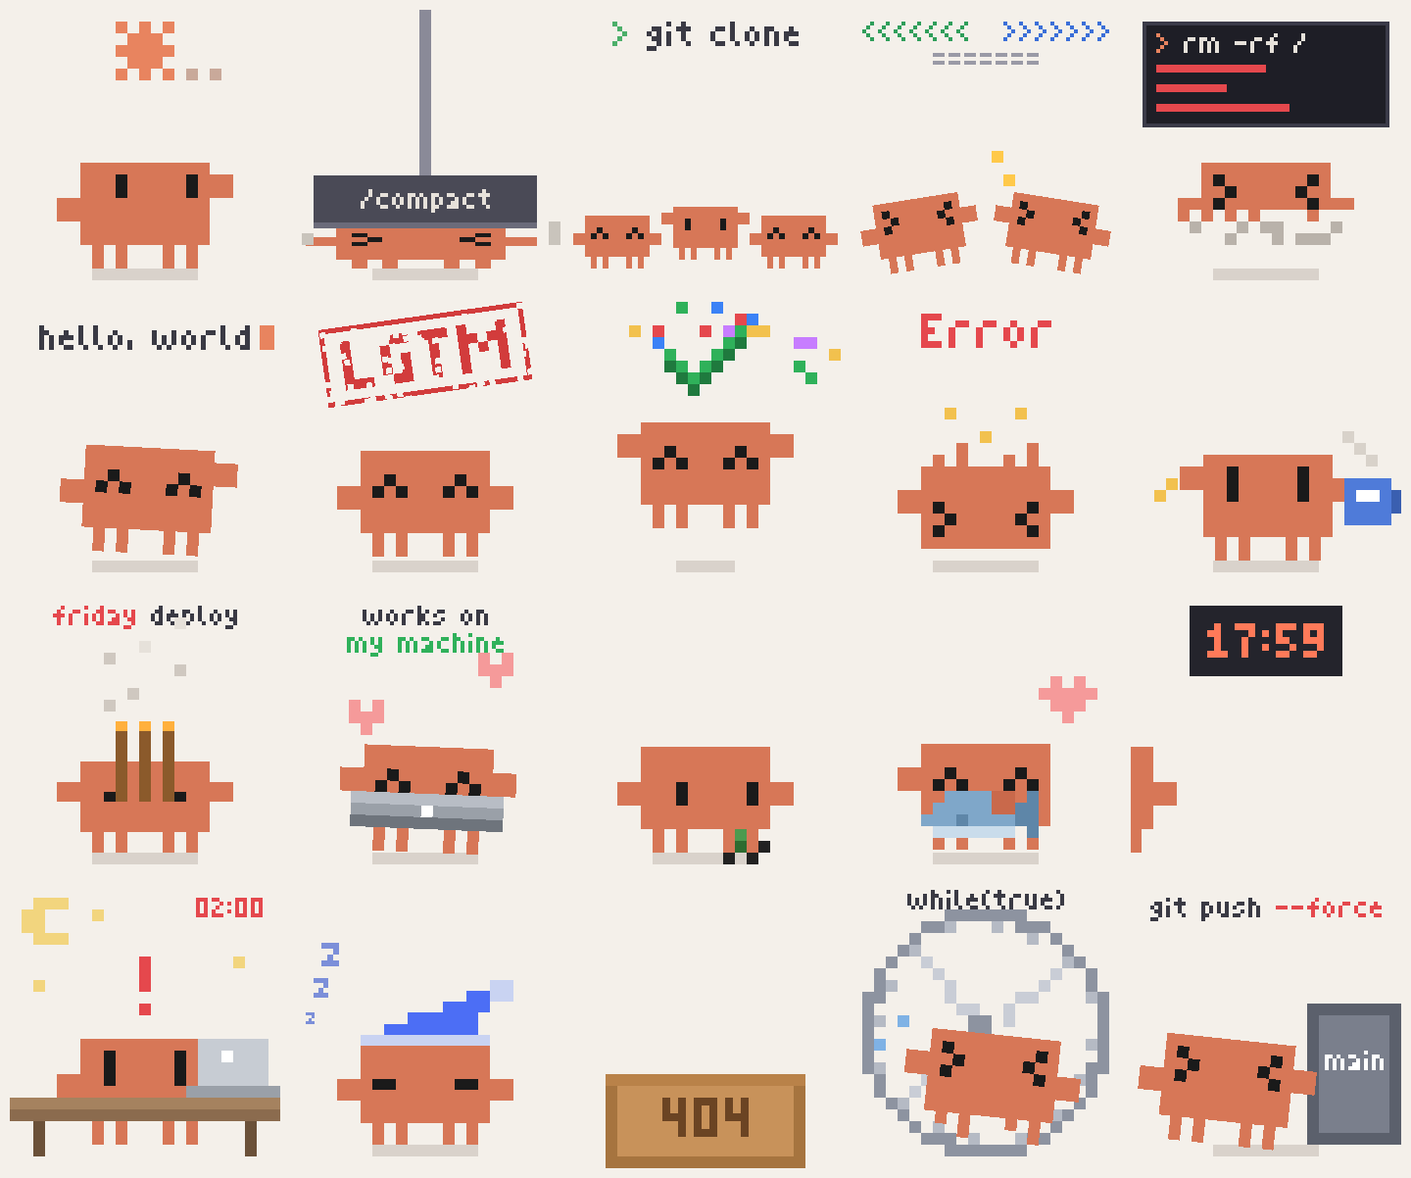
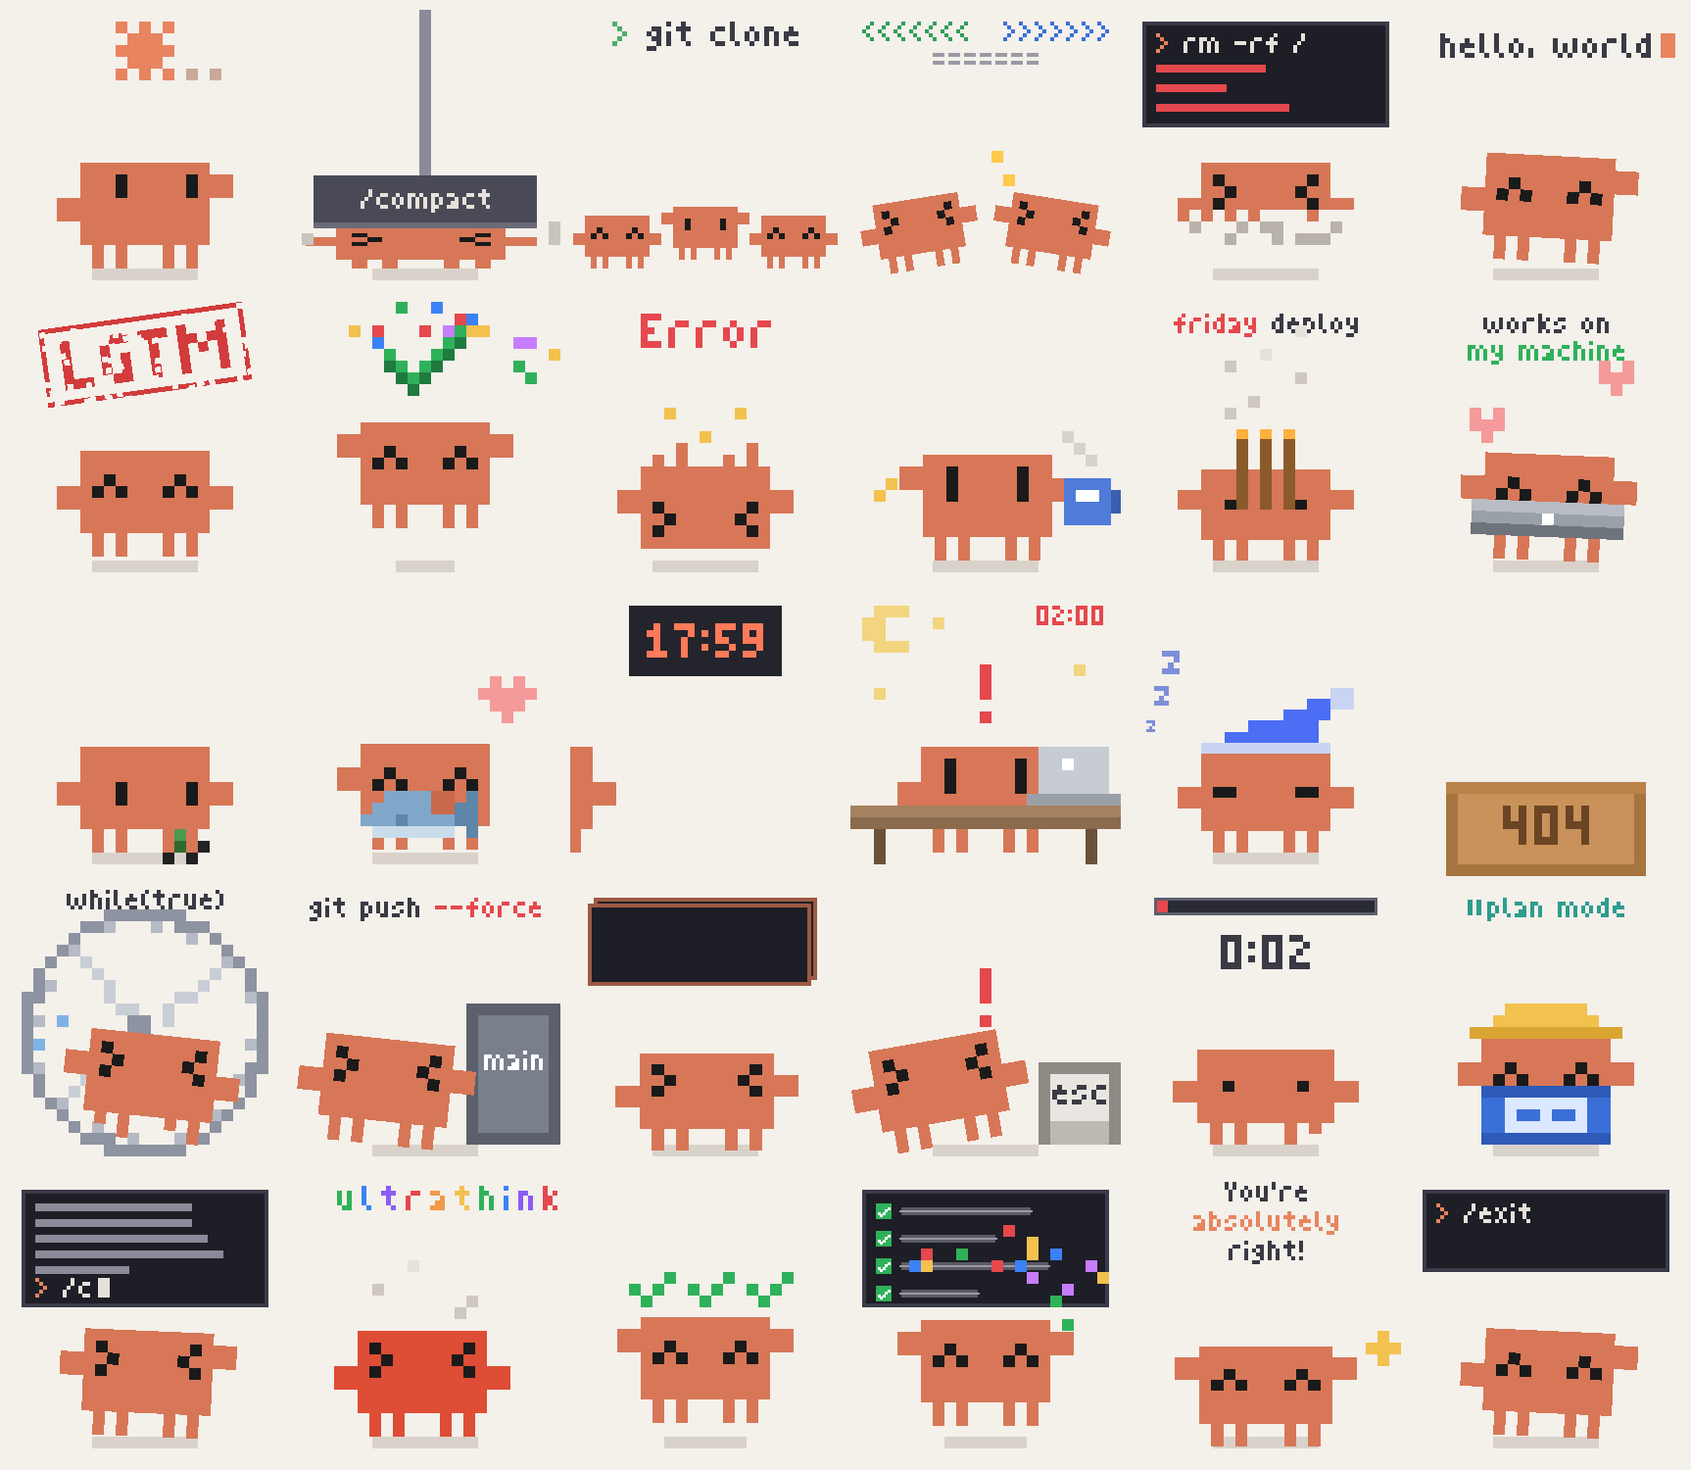
Add 10 Claude Code stickers to Dev Life (now 30)
Yes Proceed, Esc, Usage Limit, Plan Mode, /clear, ultrathink,
Subagents, Todo List, You're Absolutely Right! and /exit, with
English and Chinese README entries and a 30-sticker preview.

diff --git a/01-dev-life/src/clawd_dev.py b/01-dev-life/src/clawd_dev.py
@@ -128,7 +128,20 @@ GL={
  '4':["x.x","x.x","xxx","..x","..x"], '5':["xxx","x..","xx.","..x","xx."],
  '6':[".xx","x..","xx.","x.x",".x."], '7':["xxx","..x",".x.",".x.",".x."],
  '8':["xxx","x.x","xxx","x.x","xxx"], '9':["xxx","x.x","xxx","..x","xx."],
+ '.':[".",".",".",".","x"], '?':["xx.","..x",".x.","...",".x."], "'":["x","x",".",".","."],
+ 'Y':["x.x","x.x",".x.",".x.",".x."], 'x':["...","x.x",".x.",".x.","x.x"],
 }
+def mix(c1,c2,t):
+    a=[int(c1[k:k+2],16) for k in (1,3,5)]; b=[int(c2[k:k+2],16) for k in (1,3,5)]
+    return '#'+''.join(f'{round(x+(y-x)*t):02X}' for x,y in zip(a,b))
+def run_legs(p,f):
+    """Alternate leg pairs for a running cycle; f is 0 or 1."""
+    clear(p,rect(3,13,11,14))
+    for x in ((3,9) if f else (5,11)): put(p,[(x,13)],BODY)
+    for x in ((5,11) if f else (3,9)): put(p,[(x,13),(x,14)],BODY)
+    return p
+def term(img,x0,y0,x1,y1):
+    box(img,x0,y0,x1,y1,'#3A3A48'); box(img,x0+4,y0+4,x1-4,y1-4,'#1E1E26')
 def textc(img,s,mid,y,px,col): return text(img,s,round(mid-text_w(s)*px/2),y,px,col)
 def spr(rows,x0,y0,pal):
     """Cell sprite from strings; chars not in pal are transparent."""
@@ -663,6 +676,251 @@ def forcepush():
     fr[-1]=(fr[-1][0],400)
     return fr
 
+# ---------- Yes, Proceed · 疯狂同意 ----------
+def proceed():
+    fr=[]; N=64; ORG='#E8845F'; FG='#E6E1DA'
+    presses=[8,18,26,32,37,41,44,47,50,53,56]
+    for i in range(N):
+        done=[t for t in presses if t<=i]; n=len(done); since=i-done[-1] if done else 99
+        img=canvas()
+        for off in (12,6):   # the queue of dialogs waiting behind
+            x0,y0=cx(-3)+off,cy(-5)-off
+            box(img,x0,y0,cx(16)+off,cy(2)-off,'#9C5A43'); box(img,x0+4,y0+4,cx(16)+off-4,cy(2)-off-4,'#1E1E26')
+        if since>=1:
+            x0,y0=cx(-3),cy(-5)
+            box(img,x0,y0,cx(16),cy(2),ORG); box(img,x0+4,y0+4,cx(16)-4,cy(2)-4,'#1E1E26')
+            text(img,'proceed?',x0+14,y0+14,4,FG)
+            box(img,x0+10,y0+44,x0+92,y0+72,'#3A3A48'); text(img,'> yes',x0+16,y0+48,4,ORG)
+        p=base(); dy=0; sq={}
+        face(p,'x' if n>=5 else 'n',0,-1 if n<5 else 0)
+        if since<1: arms(p,DOWN,MID); dy=0.5; sq=squash(0.92)
+        else: arms(p,DOWN,UP)
+        dx=0.25*math.sin(i*2.9) if n>=6 else 0
+        fr.append((comp(shadow(),img,xform(p,dx,dy,**sq)),60))
+    return fr
+
+# ---------- Esc · 急停 ----------
+def esc():
+    fr=[]; N=56
+    for i in range(N):
+        ky=round(kf(i,[(8,-22),(12,0),(44,0),(50,-24)]))
+        key={}
+        put(key,rect(12,8+ky,18,12+ky),'#E9E6E1'); put(key,rect(12,13+ky,18,14+ky),'#BDB8B0')
+        put(key,rect(12,8+ky,18,8+ky)+rect(12,8+ky,12,14+ky)+rect(18,8+ky,18,14+ky),'#8E8A84')
+        lab=canvas(); textc(lab,'esc',cx(15.5),cy(9+ky)+6,5,'#3A3A44')
+        p=base(); rot=0; fx={}
+        dx=kf(i,[(0,-14),(14,-3)]) if i<14 else -3
+        if i<14:
+            run_legs(p,(i//2)%2); face(p,'n',1 if i<11 else 0); arms(p,MID if (i//2)%2 else DOWN,DOWN if (i//2)%2 else MID)
+            for y in (8,10,12): put(fx,[(round(dx)-2-k,y) for k in range(3)],'#CFC8C0')
+        elif i<26:
+            face(p,'x'); rot=kf(i,[(14,0),(16,10),(22,10),(26,0)])
+            if i<20:
+                for k in range(3): fx[(round(dx)+1-k-(i-14),14-k%2)]='#D9D2CB'
+            if 16<=i<24 and (i//2)%2: fx.update(bang(7,0))
+        else: face(p,'n',1,0,blink=(i in (34,35)))
+        fr.append((comp(shadow(),xform(p,dx,0,rot=rot),key,lab,fx),60))
+    fr[13]=(fr[13][0],120); fr[-1]=(fr[-1][0],300)
+    return fr
+
+# ---------- Usage Limit · 额度用完 ----------
+def limit():
+    fr=[]; N=60; RED='#E5484D'; G='#2FB15A'
+    for i in range(N):
+        img=canvas(); x0,x1,y0=cx(-2),cx(17),cy(-6)
+        box(img,x0,y0,x1,y0+18,'#5B606C'); box(img,x0+3,y0+3,x1-3,y0+15,'#2A2A33')
+        f=0.05 if i<36 else kf(i,[(36,0.05),(42,1)])
+        box(img,x0+3,y0+3,x0+3+(x1-x0-6)*f,y0+15,RED if i<36 else G)
+        t=['0:03','0:02','0:01'][i//12] if i<36 else '0:00'
+        textc(img,t,138,cy(-3)+2,7,'#3A3A44' if i<36 else G)
+        p=base(); dy=0; rot=0; sq={}
+        if i<36:
+            face(p,'n',blink=True); rot=3*math.sin(TAU*i/24); sq=squash(0.9)
+            if (i//4)%2: clear(p,[(11,14)])
+        elif i<40: face(p,'n'); put(p,[(4,7),(10,7)],K)
+        else:
+            face(p,'hap'); t2=((i-40)%8)/8
+            if i<56: dy=-2.5*math.sin(math.pi*t2); arms(p,UP,UP)
+        fr.append((comp(shadow(-dy),img,xform(p,0,dy,rot=rot,**sq)),70))
+    fr[35]=(fr[35][0],300)
+    return fr
+
+# ---------- Plan Mode · 计划模式 ----------
+def plan():
+    fr=[]; N=60; TEAL='#2E9C8F'
+    HAT=["....yyyyyyy....","...yyyyyyyyy...",".ddddddddddddd."]
+    LINES=[(x,13) for x in range(4,11)]+[(4,12),(10,12)]+[(4,11),(5,11),(6,11),(7,11),(8,11),(9,11),(10,11)]+[(7,12)]
+    for i in range(N):
+        img=canvas(); tw=text_w('plan mode')*4; x0=round(138-(tw+20)/2); y0=cy(-6)
+        box(img,x0,y0+2,x0+5,y0+18,TEAL); box(img,x0+9,y0+2,x0+14,y0+18,TEAL)
+        text(img,'plan mode',x0+20,y0,4,TEAL)
+        p=base(); arms(p,MID,MID); dy=0
+        if i<10: face(p,'n')
+        elif i<40: face(p,'n',-1 if (i//8)%2 else 1,0,blink=(i in (30,31))); dy=0.4 if (i//6)%2 else 0
+        else: face(p,'hap')
+        if 42<=i<50: dy=-kf(i,[(42,0),(45,2),(48,0)])
+        p.update(spr(HAT,0,3,{'y':'#F2C14E','d':'#D9A532'}))
+        w=kf(i,[(2,1),(10,11)])
+        put(p,[(x,y) for x in range(round(7-w/2),round(7+w/2)+1) for y in range(10,15)],'#3B6FD8')
+        put(p,[(x,y) for x in range(round(7-w/2),round(7+w/2)+1) for y in (10,14)],'#2E5AB8')
+        if i>=10: put(p,LINES[:clamp((i-10)//2+1,0,len(LINES))],'#DCE8FF')
+        fr.append((comp(shadow(-dy),img,xform(p,0,dy)),70))
+    fr[-1]=(fr[-1][0],400)
+    return fr
+
+# ---------- /clear · 清空上下文 ----------
+def clear_ctx():
+    fr=[]; N=60; FG='#E6E1DA'; ORG='#E8845F'; rng=random.Random(11)
+    bars=[rng.randint(6,26) for _ in range(40)]
+    for i in range(N):
+        img=canvas(); X0,Y0,X1,Y1=cx(-3),cy(-6),cx(18),cy(4); term(img,X0,Y0,X1,Y1)
+        tx=X0+14; px=4
+        if i<18:
+            for r in range(5):
+                box(img,tx,Y0+14+r*16,tx+bars[r+i//3]*px*2,Y0+14+r*16+8,'#8A8A98')
+            typed='/clear'[:clamp((i-4)//2,0,6)]; py=Y1-30
+            x=text(img,'> ',tx,py,px,ORG); x=text(img,typed,x,py,px,FG)
+            if (i//4)%2==0: box(img,x+px,py,x+4*px,py+5*px,FG)
+        elif i<24:
+            for r in range(5-(i-18)):
+                box(img,tx,Y0+14+(r+(i-18))*16,tx+bars[r]*px*2,Y0+14+(r+(i-18))*16+8,'#8A8A98')
+        else:
+            x=text(img,'> ',tx,Y0+14,px,ORG)
+            if (i//4)%2==0: box(img,x+px,Y0+14,x+4*px,Y0+14+5*px,FG)
+        p=base(); rot=0; fx={}
+        if i<18:
+            face(p,'x'); rot=3*math.sin(i*1.3)
+            if 4<=i<16: arms(p,UP if i%2 else MID,MID if i%2 else UP)
+        else:
+            face(p,'hap' if i<48 else 'n',blink=(i in (54,55)))
+            if i<40:
+                for k,(x,y) in enumerate([(-2,7),(16,6),(0,4),(15,10)]):
+                    if (i+k)%4<2: fx.update({(x,y):'#F2C14E',(x+1,y):'#F2C14E',(x,y-1):'#F2C14E'})
+        fr.append((comp(shadow(),img,xform(p,0,0,rot=rot),fx),60))
+    fr[17]=(fr[17][0],200); fr[-1]=(fr[-1][0],400)
+    return fr
+
+# ---------- ultrathink · 深度思考 ----------
+def ultrathink():
+    fr=[]; N=60; RAIN=['#E5484D','#F2994A','#F2C14E','#2FB15A','#3B82F6','#8B5CF6']
+    BULB=[".yyy.","yyyyy","yyyyy",".yyy.",".ggg.","..g.."]
+    w='ultrathink'; px=5
+    for i in range(N):
+        img=canvas(); x=round(138-text_w(w)*px/2)
+        for k,c in enumerate(w[:clamp(i-1,0,len(w))]):
+            x=text(img,c,x,cy(-6)-4,px,RAIN[(k+i//2)%6])+px
+        p=base(); dx=0; fx={}
+        heat=kf(i,[(12,0),(40,1),(44,1),(48,0)])
+        if i<12: face(p,'n',0,-1)
+        elif i<44:
+            face(p,'x'); dx=0.25*math.sin(i*3)
+            for k in range(4):
+                t=((i+k*3)%12)/12; fx[(3+k*3+round(math.sin(t*6+k)),round(5-t*6))]='#CFC8C0' if t<0.6 else '#E6E1DA'
+        else:
+            face(p,'hap'); fx.update(spr(BULB,5,-2,{'y':'#FFE066','g':'#9AA0AA'}))
+            if (i//3)%2: fx.update({(3,-2):'#FFE066',(11,-2):'#FFE066',(3,2):'#FFE066',(11,2):'#FFE066',(7,-4):'#FFE066'})
+        hot=mix(BODY,'#E0402A',heat)
+        p={k:(hot if c==BODY else c) for k,c in p.items()}
+        fr.append((comp(shadow(),img,xform(p,dx,0),fx),60))
+    fr[44]=(fr[44][0],200); fr[-1]=(fr[-1][0],400)
+    return fr
+
+# ---------- Subagents · 子代理 ----------
+def subagents():
+    fr=[]; N=64; G='#2FB15A'; CK=[(0,1),(1,2),(2,1),(3,0)]
+    paths=[[(6,138),(20,-40),(34,-40),(48,138)],[(8,138),(22,316),(36,316),(50,138)],[(10,138),(26,-40),(38,-40),(52,138)]]
+    for i in range(N):
+        tiny=[]; img=canvas(); d=ImageDraw.Draw(img)
+        for k,pth in enumerate(paths):
+            if not pth[0][0]<=i<pth[-1][0]: continue
+            tx=kf(i,pth); back=i>=pth[2][0]
+            q=run_legs(base(),(i//2)%2); face(q,'hap' if back else 'n',(-1 if tx<138 else 1) if not back else 0)
+            tiny.append(render(q,4,tx,264))
+            if back:
+                for cx_,cy_ in CK: d.rectangle([tx-8+cx_*4,264-60+cy_*4,tx-8+cx_*4+3,264-60+cy_*4+7],fill=G)
+        p=base(); dy=0; fx={}
+        if i<12: arms(p,UP if (i//4)%2 else MID,MID if (i//4)%2 else UP); face(p,'n',-1 if (i//4)%2 else 1)
+        elif i<48: face(p,'n',-1 if (i//10)%2 else 1,blink=(i in (30,31)))
+        else:
+            face(p,'hap')
+            if i<58: dy=-2*abs(math.sin(math.pi*(i-48)/5)); arms(p,UP,UP)
+        if i>=50:
+            for k in range(3):
+                if i>=48+2*k: fx.update({(x+1+5*k,y+1):G for x,y in CK})
+        fr.append((comp(shadow(-dy),*tiny,xform(p,0,dy),img,fx),60))
+    fr[-1]=(fr[-1][0],400)
+    return fr
+
+# ---------- Todo List · 待办清单 ----------
+def todo():
+    fr=[]; N=64; FG='#E6E1DA'; ORG='#E8845F'; G='#2FB15A'
+    T=[12,24,36,48]; L=[22,16,25,13]
+    for i in range(N):
+        img=canvas(); X0,Y0,X1,Y1=cx(-3),cy(-6),cx(18),cy(4); term(img,X0,Y0,X1,Y1)
+        cur=next((r for r,t in enumerate(T) if i<t),None)
+        for r in range(4):
+            y=Y0+14+r*28; bx=X0+14
+            if i>=T[r]:
+                box(img,bx,y,bx+16,y+16,G)
+                for cx_,cy_ in [(0,2),(1,3),(2,2),(3,1),(4,0)]: box(img,bx+2+cx_*2.4,y+4+cy_*2.4,bx+5+cx_*2.4,y+7+cy_*2.4,'#FFFFFF')
+                box(img,bx+26,y+4,bx+26+L[r]*6,y+12,'#5B5B66'); box(img,bx+24,y+7,bx+28+L[r]*6,y+9,'#9A9AA6')
+            else:
+                col=ORG if r==cur else '#B5B5C0'
+                box(img,bx,y,bx+16,y+16,col); box(img,bx+3,y+3,bx+13,y+13,'#1E1E26')
+                box(img,bx+26,y+4,bx+26+L[r]*6,y+12,col)
+        p=base(); dy=0; tick=any(t-3<=i<t for t in T)
+        if i<T[-1]:
+            face(p,'n',0,-1); arms(p,DOWN,UP if tick else MID)
+        else:
+            face(p,'hap'); t2=((i-T[-1])%8)/8; dy=-2.5*math.sin(math.pi*t2); arms(p,UP,UP)
+        fr.append((comp(shadow(-dy),img,xform(p,0,dy),confetti(i,T[-1]) if i>=T[-1] else None),60))
+    return fr
+
+# ---------- You're Absolutely Right! · 您说得对 ----------
+def right():
+    fr=[]; N=56; ORG='#E8845F'; DK='#3A3A44'
+    lines=[("You're",DK),('absolutely',ORG),('right!',DK)]
+    for i in range(N):
+        img=canvas()
+        for k,(s,c) in enumerate(lines):
+            if i>=3+k*6: textc(img,s,138,4+k*30,4,c)
+        p=base(); dy=0; sq={}; fx={}
+        if i<3: face(p,'n')
+        else:
+            face(p,'hap'); t=((i-3)%8)/8; dy=0.8*max(0,math.sin(TAU*t))
+            if dy>0.4: sq=squash(0.94)
+            arms(p,UP if ((i-3)//8)%2 else MID,UP if ((i-3)//8)%2 else MID)
+        if i>=15:
+            for k,(x,y) in enumerate([(-3,9),(17,7),(-2,4),(16,12)]):
+                if (i+k*2)%6<3: fx.update({(x,y):'#F2C14E',(x+1,y):'#F2C14E',(x,y+1):'#F2C14E',(x-1,y):'#F2C14E',(x,y-1):'#F2C14E'})
+        fr.append((comp(shadow(),img,xform(p,0,dy,**sq),fx),60))
+    return fr
+
+# ---------- /exit · 拜拜 ----------
+def bye():
+    fr=[]; N=60; FG='#E6E1DA'; ORG='#E8845F'
+    for i in range(N):
+        img=canvas(); X0,Y0,X1,Y1=cx(-3),cy(-6),cx(18),cy(1); term(img,X0,Y0,X1,Y1)
+        tx,ty,px=X0+14,Y0+14,4
+        x=text(img,'> ',tx,ty,px,ORG); x=text(img,'/exit'[:clamp((i-2)//2,0,5)],x,ty,px,FG)
+        if i<14 and (i//4)%2==0: box(img,x+px,ty,x+4*px,ty+5*px,FG)
+        if i>=42:
+            x=text(img,'bye!',tx,ty+36,px,FG)
+            if (i//4)%2==0: box(img,x+px,ty+36,x+4*px,ty+36+5*px,FG)
+        p=base(); ch=None
+        if i<14:
+            face(p,'n',0,-1)
+            if 2<=i<12: arms(p,UP if i%2 else MID,MID if i%2 else UP)
+            ch=xform(p)
+        elif i<30:
+            face(p,'hap'); arms(p,DOWN,UP if (i//3)%2 else MID); ch=xform(p,0,0,rot=3*math.sin(TAU*i/12))
+        elif i<42:
+            face(p,'hap'); arms(p,UP,UP)
+            cs=round(kf(i,[(30,12),(41,1)])); ch=render(p,cs,138,kf(i,[(30,264),(41,108)]))
+        fr.append((comp(shadow() if i<30 else None,ch,img),60))
+    fr[13]=(fr[13][0],200); fr[-1]=(fr[-1][0],600)
+    return fr
+
 def to_gif(frames,path):
     gf=[]
     for im,_ in frames:
@@ -689,7 +947,10 @@ def save(nm,fr):
     print(f'{nm}: {len(fr)} frames, {n//1024}KB | wechat {len(sub)} frames, {m//1024}KB')
 
 ALL=['thinking','compact','clone','conflict','rmrf','hello','lgtm','passed','error','coffee',
-     'deploy','works','bug','fish','offwork','overtime','sleep','notfound','loop','forcepush']
+     'deploy','works','bug','fish','offwork','overtime','sleep','notfound','loop','forcepush',
+     'proceed','esc','limit','plan','clear_ctx','ultrathink','subagents','todo','right','bye']
+FILE={'clear_ctx':'clear'}   # clear() is already a drawing helper
 if __name__=='__main__':
     for nm in (sys.argv[1:] or ALL):
-        save(nm,globals()[nm]())
+        nm={v:k for k,v in FILE.items()}.get(nm,nm)
+        save(FILE.get(nm,nm),globals()[nm]())

diff --git a/01-dev-life/README.md b/01-dev-life/README.md
@@ -2,7 +2,7 @@
 
 English | [简体中文](README.zh-CN.md)
 
-20 animated stickers about a programmer's everyday life, starring Clawd. Clawd's eyes are two small black squares (sometimes squinting into ^ ^ or > <), and there's no mouth: every joke is told through movement and props. These rules follow [01-movie-night](https://github.com/Qisi3344/clawd-moji/tree/main/01-movie-night) from Qisi3344/clawd-moji.
+30 animated stickers about a programmer's everyday life, starring Clawd. Clawd's eyes are two small black squares (sometimes squinting into ^ ^ or > <), and there's no mouth: every joke is told through movement and props. Stickers 21–30 are Claude Code specials. These rules follow [01-movie-night](https://github.com/Qisi3344/clawd-moji/tree/main/01-movie-night) from Qisi3344/clawd-moji.
 
 ![preview](preview.png)
 
@@ -28,6 +28,16 @@ English | [简体中文](README.zh-CN.md)
 | 18 | **404 Not Found** | <img src="gif/notfound.gif" width="120"> | Peeks out of a box marked 404, looks left and right, realizes it's been spotted, ducks back in, and leaves a "?". |
 | 19 | **while(true)** | <img src="gif/loop.gif" width="120"> | Runs flat out in a hamster wheel until its eyes go > < and sweat goes flying. |
 | 20 | **Force Push** | <img src="gif/forcepush.gif" width="120"> | Shoves a big block labeled `main` until it flies off and cheers. Then the block gets pushed back and squeezes it out. |
+| 21 | **Yes, Proceed** | <img src="gif/proceed.gif" width="120"> | Permission dialogs keep popping up and it keeps hitting yes, faster and faster, until its eyes go > <. |
+| 22 | **Esc** | <img src="gif/esc.gif" width="120"> | Charging ahead full speed when a giant Esc key slams down in front of it. It screeches to a stop, nose to the key. |
+| 23 | **Usage Limit** | <img src="gif/limit.gif" width="120"> | Sits and waits with an empty red usage bar while the timer ticks down. At 0:00 the bar refills green and it springs up. |
+| 24 | **Plan Mode** | <img src="gif/plan.gif" width="120"> | Puts on a hard hat, unrolls a blueprint and sketches a little house on it before writing any code. |
+| 25 | **/clear** | <img src="gif/clear.gif" width="120"> | The terminal is overflowing and its eyes are spinning. Types `/clear`, everything wipes away, and it sparkles with relief. |
+| 26 | **ultrathink** | <img src="gif/ultrathink.gif" width="120"> | `ultrathink` appears in rainbow letters. It thinks so hard it turns red and steams, then a light bulb goes on. |
+| 27 | **Subagents** | <img src="gif/subagents.gif" width="120"> | Sends out three tiny Clawds that run off screen. They come back one by one with check marks, and it cheers. |
+| 28 | **Todo List** | <img src="gif/todo.gif" width="120"> | Watches the todo list as each item turns orange, then gets checked off. When all four are done, confetti falls. |
+| 29 | **You're Absolutely Right!** | <img src="gif/right.gif" width="120"> | Nods along eagerly as `You're absolutely right!` appears line by line, with sparkles. |
+| 30 | **/exit** | <img src="gif/bye.gif" width="120"> | Types `/exit`, waves goodbye, then shrinks away into the terminal, leaving `bye!` behind. |
 
 ## Download / Use in WeChat
 
@@ -41,7 +51,7 @@ To use them in WeChat, send a GIF from `wechat/` to "File Transfer", open it, lo
 ```bash
 cd src
 pip install pillow
-python clawd_dev.py            # all 20
+python clawd_dev.py            # all 30
 python clawd_dev.py compact    # just one
 ```
 

diff --git a/01-dev-life/README.zh-CN.md b/01-dev-life/README.zh-CN.md
@@ -2,7 +2,7 @@
 
 [English](README.md) | 简体中文
 
-程序员日常主题，20 个动态表情，Clawd 主演。眼睛是两个小黑方块（偶尔眯成 ^ ^ 或 > <），不画嘴，戏全靠动作和道具。这套规矩沿用 Qisi3344/clawd-moji 的 [01-movie-night](https://github.com/Qisi3344/clawd-moji/tree/main/01-movie-night)。
+程序员日常主题，30 个动态表情，Clawd 主演。眼睛是两个小黑方块（偶尔眯成 ^ ^ 或 > <），不画嘴，戏全靠动作和道具。第 21–30 个是 Claude Code 专属表情。这套规矩沿用 Qisi3344/clawd-moji 的 [01-movie-night](https://github.com/Qisi3344/clawd-moji/tree/main/01-movie-night)。
 
 ![preview](preview.png)
 
@@ -28,6 +28,16 @@
 | 18 | **找不到**<br>404 Not Found | <img src="gif/notfound.gif" width="120"> | 写着 404 的纸箱里冒出半个脑袋左右张望，发现被看到了，嗖地缩回去，留下一个「？」。 |
 | 19 | **死循环**<br>while(true) | <img src="gif/loop.gif" width="120"> | 在仓鼠轮里狂奔，跑着跑着眼睛变成 > <，汗都甩飞了。 |
 | 20 | **强推**<br>Force Push | <img src="gif/forcepush.gif" width="120"> | 顶着写着 `main` 的大方块使劲推，推飞后欢呼；然后方块又被推回来，把它挤走。 |
+| 21 | **疯狂同意**<br>Yes, Proceed | <img src="gif/proceed.gif" width="120"> | 权限确认框一个接一个弹出来，它一直按 yes，越按越快，最后眼睛变成 > <。 |
+| 22 | **急停**<br>Esc | <img src="gif/esc.gif" width="120"> | 正全速往前冲，一个大 Esc 键砸在面前，急刹车，脸贴到键上。 |
+| 23 | **额度用完**<br>Usage Limit | <img src="gif/limit.gif" width="120"> | 坐着干等，用量条空空的是红色，倒计时一格格减少；到 0:00 用量条回满变绿，它立刻弹起来。 |
+| 24 | **计划模式**<br>Plan Mode | <img src="gif/plan.gif" width="120"> | 戴上安全帽，展开一张蓝图，先画个小房子再动手写代码。 |
+| 25 | **清空上下文**<br>/clear | <img src="gif/clear.gif" width="120"> | 终端满屏文字，它眼睛都转晕了；敲下 `/clear`，全部清空，开心地冒星星。 |
+| 26 | **深度思考**<br>ultrathink | <img src="gif/ultrathink.gif" width="120"> | 彩虹色的 `ultrathink` 一个个出现，它想得太用力，全身发红冒烟，最后头顶亮起一个灯泡。 |
+| 27 | **子代理**<br>Subagents | <img src="gif/subagents.gif" width="120"> | 派出三只小小克跑出画面，它们一只只带着对勾回来，主小克欢呼。 |
+| 28 | **待办清单**<br>Todo List | <img src="gif/todo.gif" width="120"> | 盯着待办清单，每一项先变橙色，再被打上勾；四项全部完成时彩纸落下。 |
+| 29 | **您说得对**<br>You're Absolutely Right! | <img src="gif/right.gif" width="120"> | `You're absolutely right!` 一行行出现，它拼命点头，身边冒星星。 |
+| 30 | **拜拜**<br>/exit | <img src="gif/bye.gif" width="120"> | 敲下 `/exit`，挥手告别，然后缩小钻进终端里，只留下一句 `bye!`。 |
 
 ## 下载 / 在微信里用
 
@@ -41,7 +51,7 @@
 ```bash
 cd src
 pip install pillow
-python clawd_dev.py            # 全部 20 个
+python clawd_dev.py            # 全部 30 个
 python clawd_dev.py compact    # 只生成一个
 ```
 

diff --git a/README.md b/README.md
@@ -17,7 +17,7 @@ Open a set, pick a sticker you like, and right-click or long-press to save the G
 
 | # | Theme | Contents | Status |
 |---|---|---|---|
-| 01 | [Dev Life · 克码人生](01-dev-life/) | 20 stickers about a programmer's everyday life | Done |
+| 01 | [Dev Life · 克码人生](01-dev-life/) | 30 stickers about a programmer's everyday life | Done |
 
 ## Structure
 
